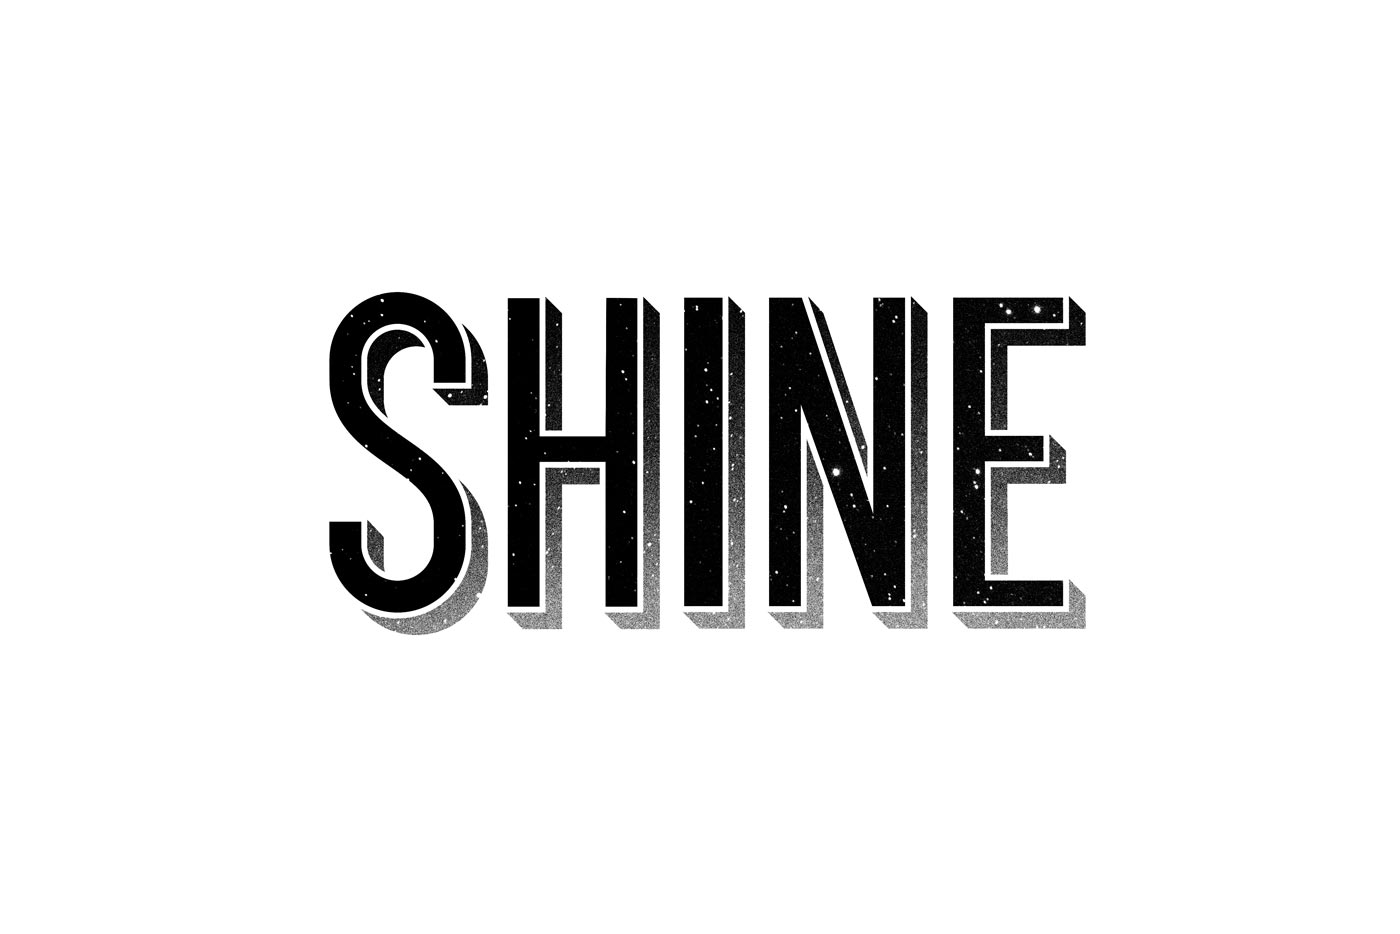
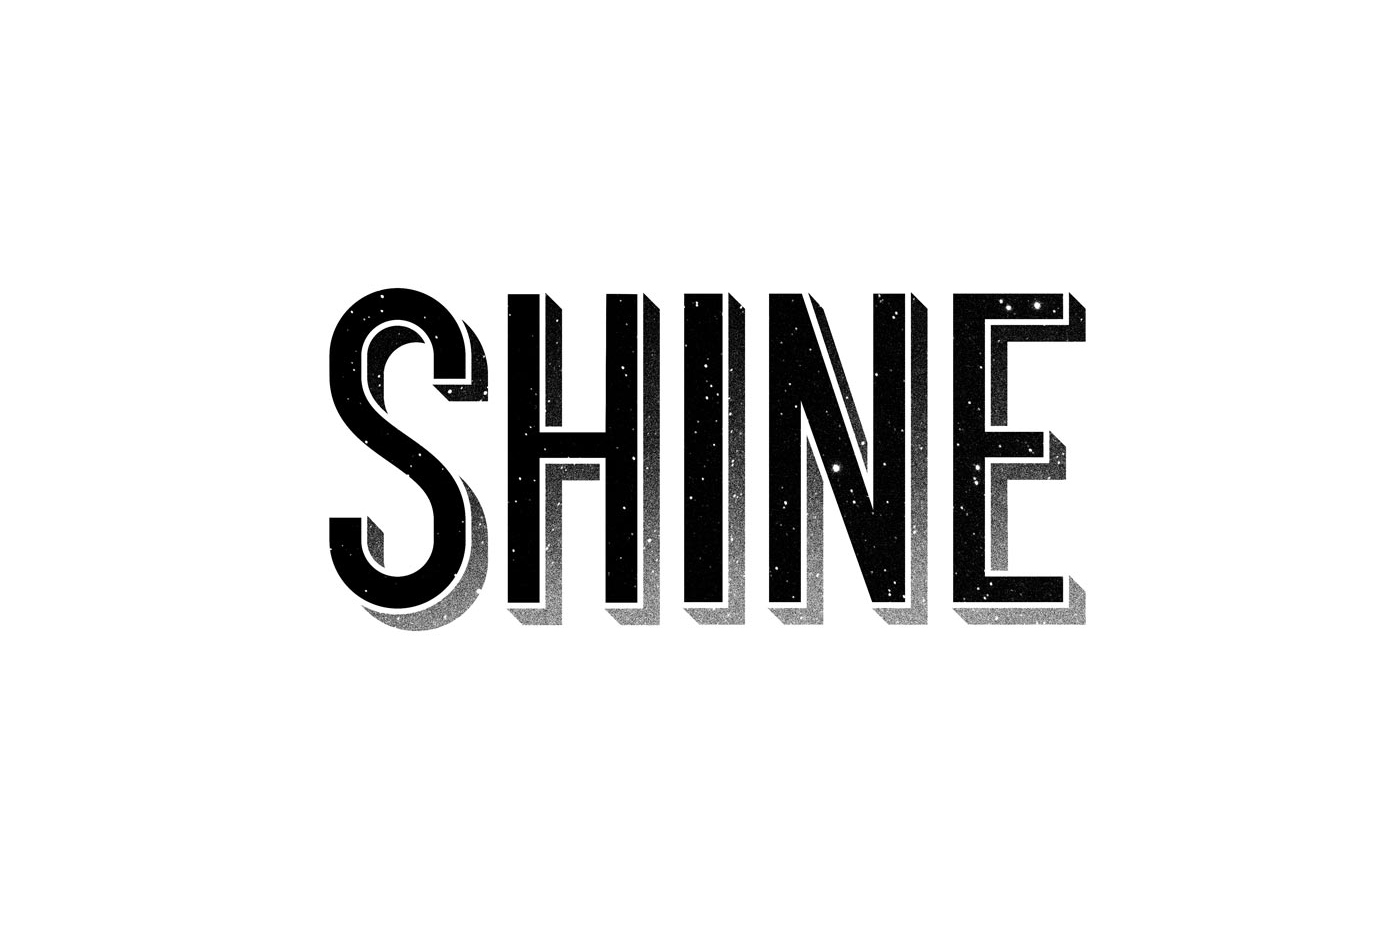
Image Size Updated

diff --git a/hidden.html b/hidden.html
@@ -36,12 +36,12 @@ meta-keywords: Gabriel Mitchell, Ottawa, Portfolio, Graphic Design, Illustration
 		</div>
 	</div>
 	<div class="center-object wrap clearfix unit-xl-5-8">
-		{% include pieces.html title="Forth" link="forth.html" img="forth/forth-intro.jpg" alt="forth" %}
-		{% include pieces.html title="Forth" link="forth.html" img="forth/forth-intro.jpg" alt="forth" %}
-		{% include pieces.html title="Forth" link="forth.html" img="forth/forth-intro.jpg" alt="forth" %}
-		{% include pieces.html title="Forth" link="forth.html" img="forth/forth-intro.jpg" alt="forth" %}
-		{% include pieces.html title="Forth" link="forth.html" img="forth/forth-intro.jpg" alt="forth" %}
-		{% include pieces.html title="Forth" link="forth.html" img="forth/forth-intro.jpg" alt="forth" %}
+		{% include pieces.html title="SHINE" link="forth.html" img="shine/1.jpg" alt="SHINE" %}
+		{% include pieces.html title="FORTH" link="forth.html" img="forth/forth-intro.jpg" alt="Forth" %}
+		{% include pieces.html title="This Winter Be &hellip;" link="f21.html" img="f21/f21-intro.jpg" alt="Forever 21" %}
+		{% include pieces.html title="KJP" link="forth.html" img="kjp/kjp-intro.jpg" alt="KJP Select Woods" %}
+		{% include pieces.html title="Apartment Story" link="aptstory.html" img="apartmentstory/national-intro.jpg" alt="forth" %}
+		{% include pieces.html title="IZZE" link="izze.html" img="izze/izze-intro.jpg" alt="forth" %}
 	</div>
 
 	<div class="wrap buffer">

diff --git a/404.html b/404.html
@@ -1,5 +1,5 @@
 ---
-layout: default
+layout: work
 title: 404 Error
 meta-desc: You've reached a page that's no longer here. Let's fix that.
 meta-keywords: error, gabriel mitchell, portfolio
